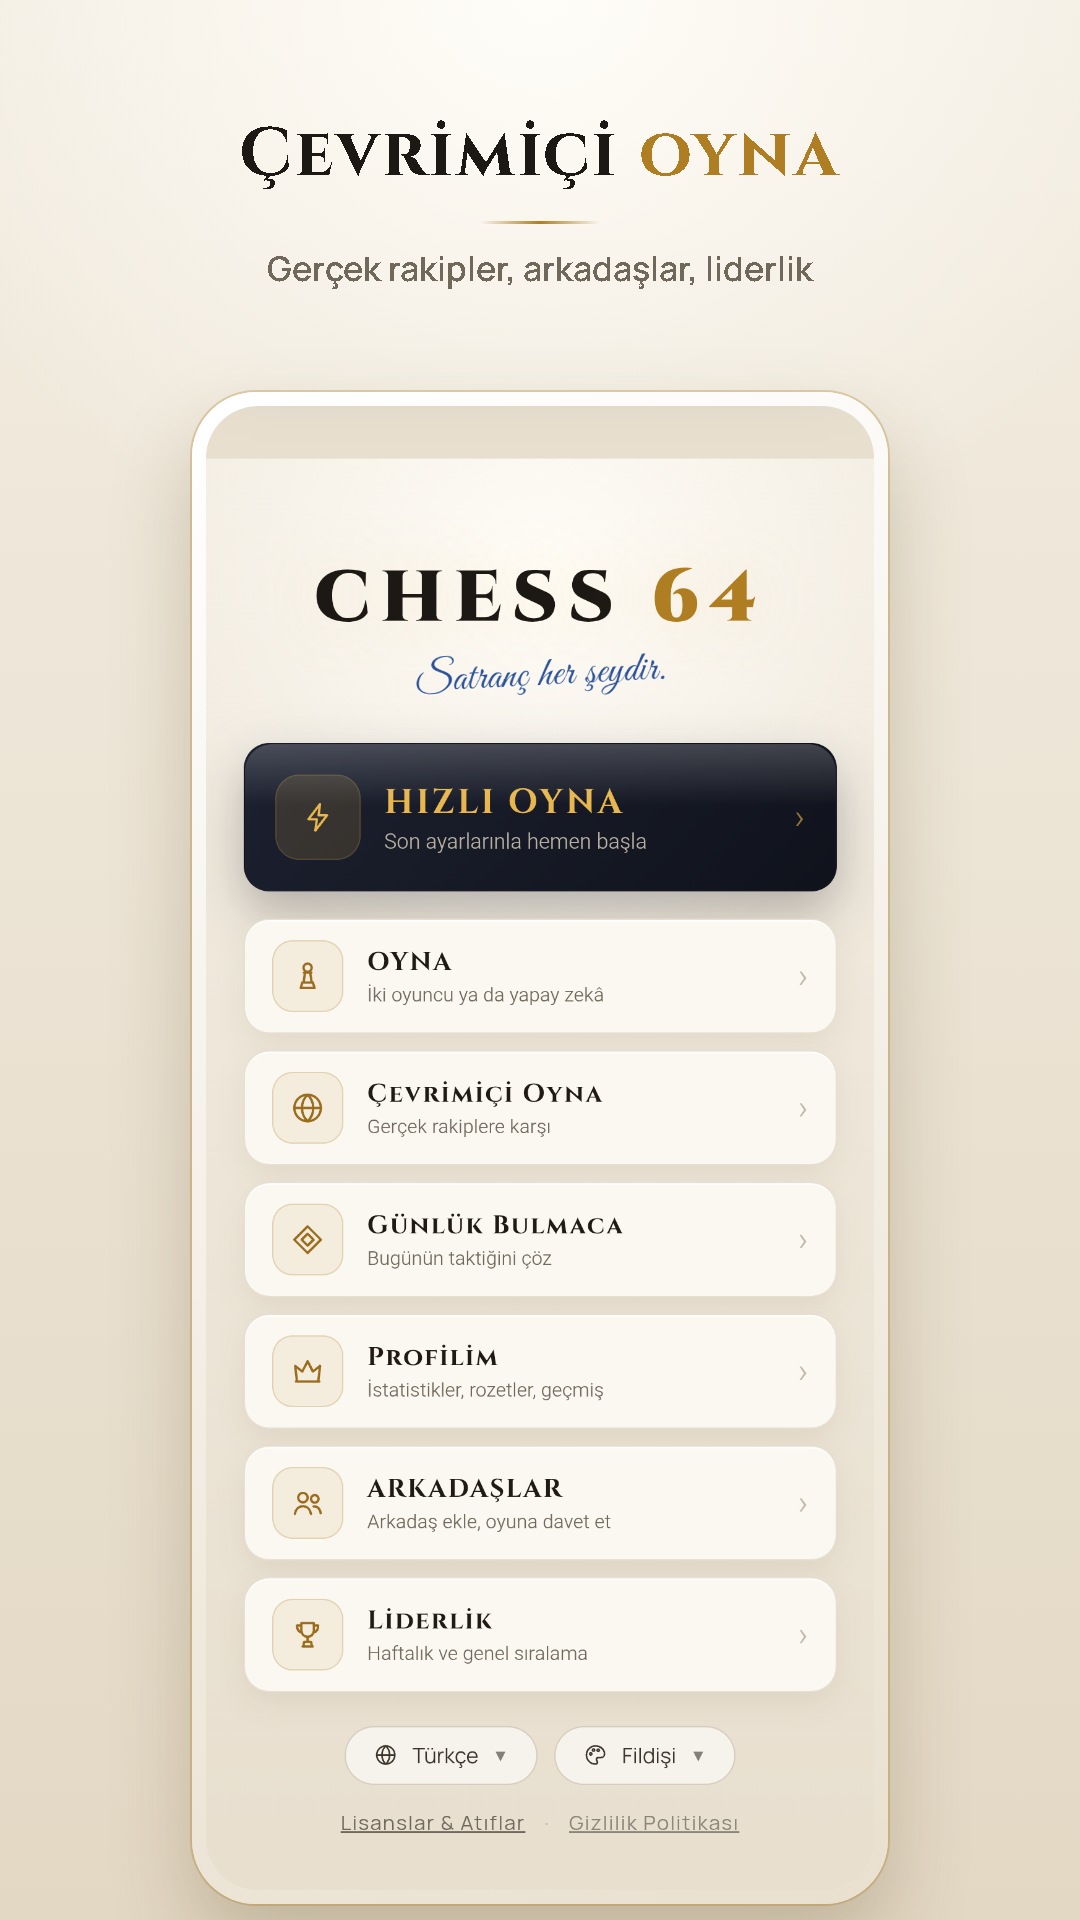
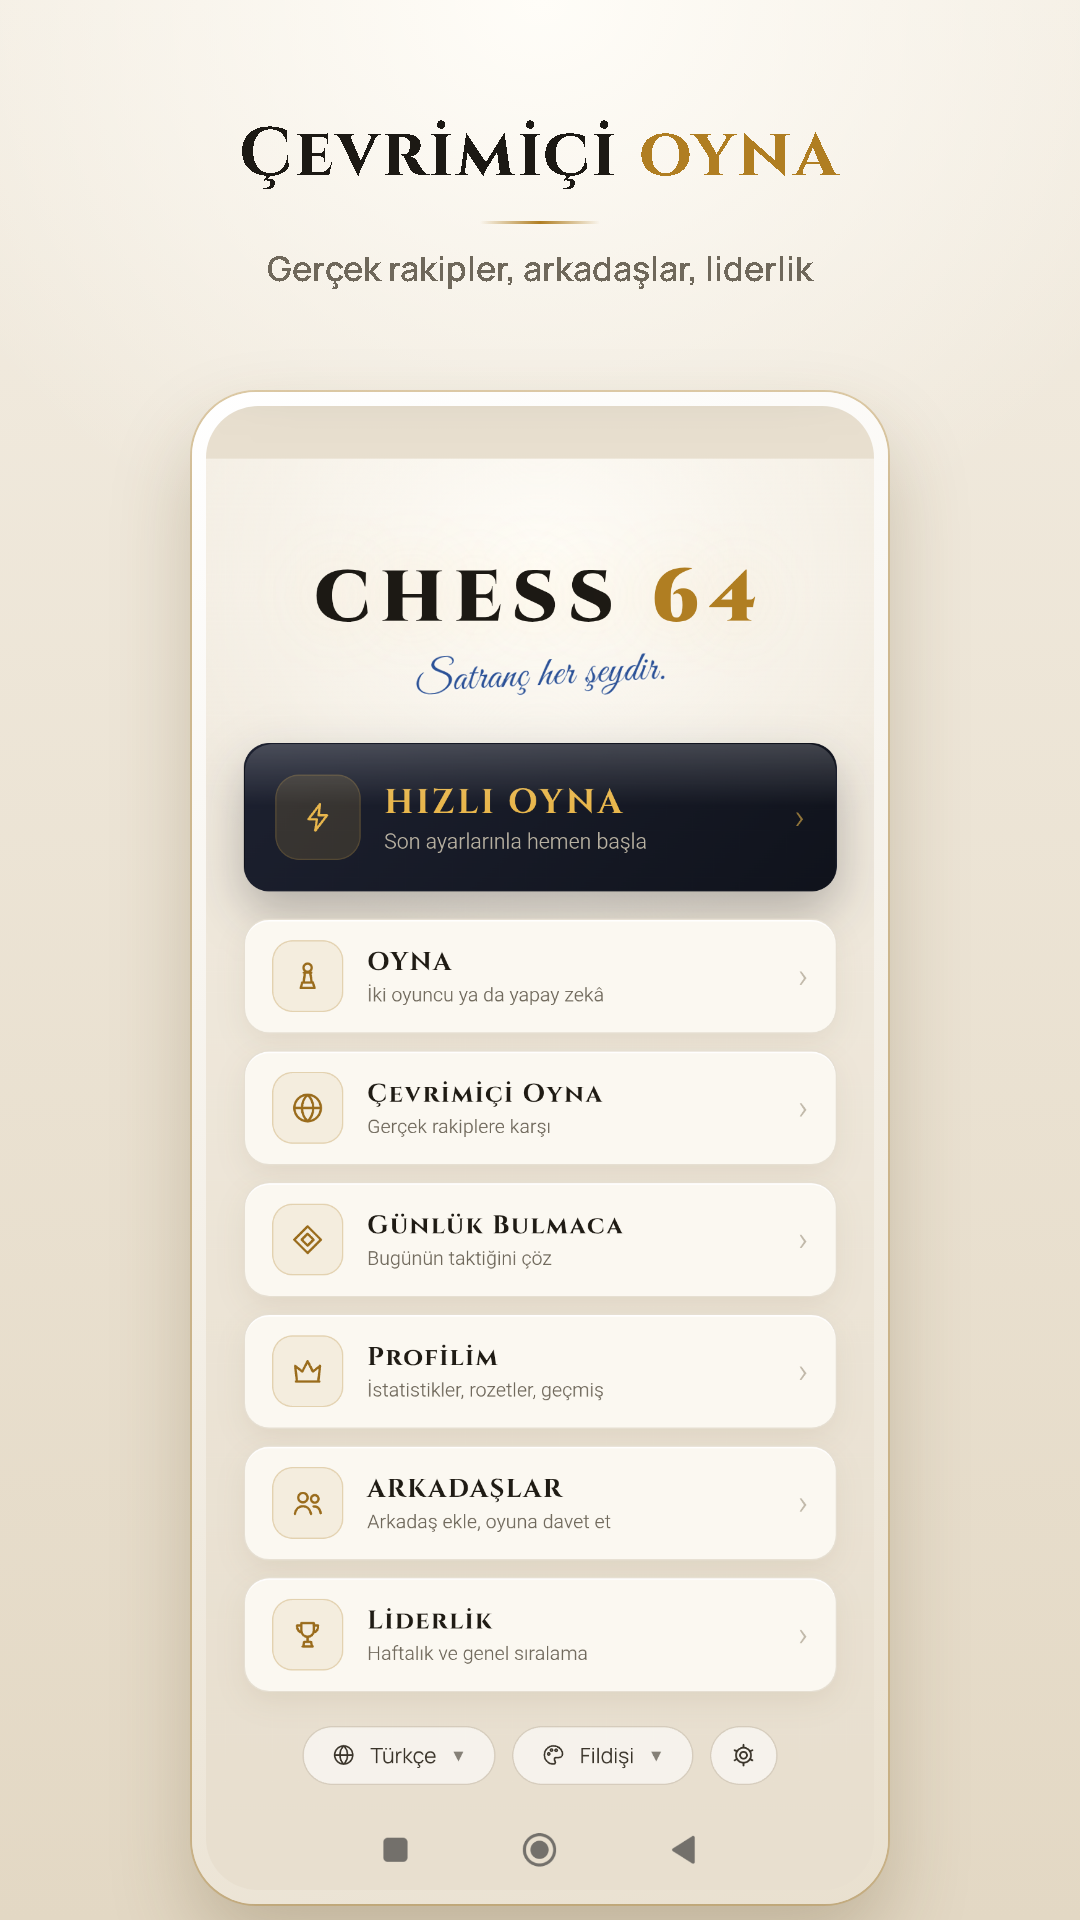
Mağaza: menü görselleri yenilendi, 8. görsel canlı önizleme; genel tur ve sürüm derlemesi notları

Changed region(s): [[0.275, 0.875, 0.7333, 0.9688]]

diff --git a/magaza/sablon.html b/magaza/sablon.html
@@ -39,7 +39,8 @@ const S={
  4:['mor','Sana uyan <span>tema</span>','Fildişi, Buzlu Cam, Gece ve daha fazlası','menu_cam'],
  5:['koyu','Bulmacalarla <span>geliş</span>','Bir, iki ve üç hamlede mat','bul3'],
  6:['acik','Oyununu <span>kur</span>','Arenanı ve ordunu seç, savaş başlasın','kur1'],
- 7:['acik','Çevrimiçi <span>oyna</span>','Gerçek rakipler, arkadaşlar, liderlik','menu_f']
+ 7:['acik','Çevrimiçi <span>oyna</span>','Gerçek rakipler, arkadaşlar, liderlik','menu_f'],
+ 8:['mor','Önce <span>dene</span>, sonra seç','Her arena ve orduyu canlı önizle','onizleme']
 };
 const n=new URLSearchParams(location.search).get('n')||'1'; const s=S[n];
 document.body.className=s[0]; document.getElementById('b').innerHTML=s[1]; document.getElementById('a').textContent=s[2];

diff --git a/PROJE-DURUM.md b/PROJE-DURUM.md
@@ -392,14 +392,8 @@ değil, o cihazın Play Services reklam dinamit modülünde. Kod tarafında
 yapılacak bir şey kalmadı; 6 denemeli üstel geri çekilme + `onResume` sıfırlama
 + tanılama ekranı zaten eklendi.
 
-**8.2 — Three.js ve Firebase CDN'den yükleniyor.** [Kesin]
-```html
-<script src="https://cdnjs.cloudflare.com/ajax/libs/three.js/r128/three.min.js">
-<script src="https://www.gstatic.com/firebasejs/10.12.2/firebase-app-compat.js">
-```
-Uygulama **internetsiz açılırsa `THREE is not defined` alır ve tahta hiç
-çizilmez.** Baştan beri böyle. `three.min.js` ~600 KB; assets'e gömmek yarım
-saatlik iş ve uygulamayı çevrimdışı çalışır hale getirir. **Önerilen sıradaki iş.**
+**8.2 — ✅ Three.js ve Firebase artık uygulamanın içinden yükleniyor** (`assets/lib/three`, `assets/lib/firebase`;
+4 Ekim 2026 kontrolü: kodda hiçbir CDN bağlantısı yok). İnternetsiz açılışta tahta çizilir.
 
 **8.3 — `VARLIK-REHBERI.md` bayat.** İçindeki "EKLENECEK" notları gerçeği
 yansıtmıyor (bkz. 7.7). Güncellenmeli ya da silinmeli.
@@ -620,6 +614,9 @@ zamanı CSS animasyonunun startTime'ına eşlenir, dokununca susar, ses kapalıy
   Premium penceresinde Google'dan gelen yerel fiyat gösterilir (`premiumFiyat`). Ürün yokken "yakında" mesajı.
 - versionCode 3 / versionName 1.4.
 - Kalan: Console'da ödeme profili kontrolü, AAB'nin bir test kanalına yüklenmesi, ürünün oluşturulması ve fiyatı.
+- 4 Ekim 2026 genel tur: 8 ana ekran + oyun içi (HUD, seçenekler, yardım, oyun sonu, lisanslar) telefonda
+  kontrol edildi, sorun yok. İmzalı `bundleRelease` derleniyor (yükleme anahtarı CN=Emre, O=Sah Dustu).
+  Mağaza görselleri 8'e çıktı (8. = canlı önizleme), menü görüntüleri dişli düğmeli hâliyle yenilendi.
 
 ## 9. YAYIN ENGELLERİ (hepsi kullanıcı tarafında)
 
